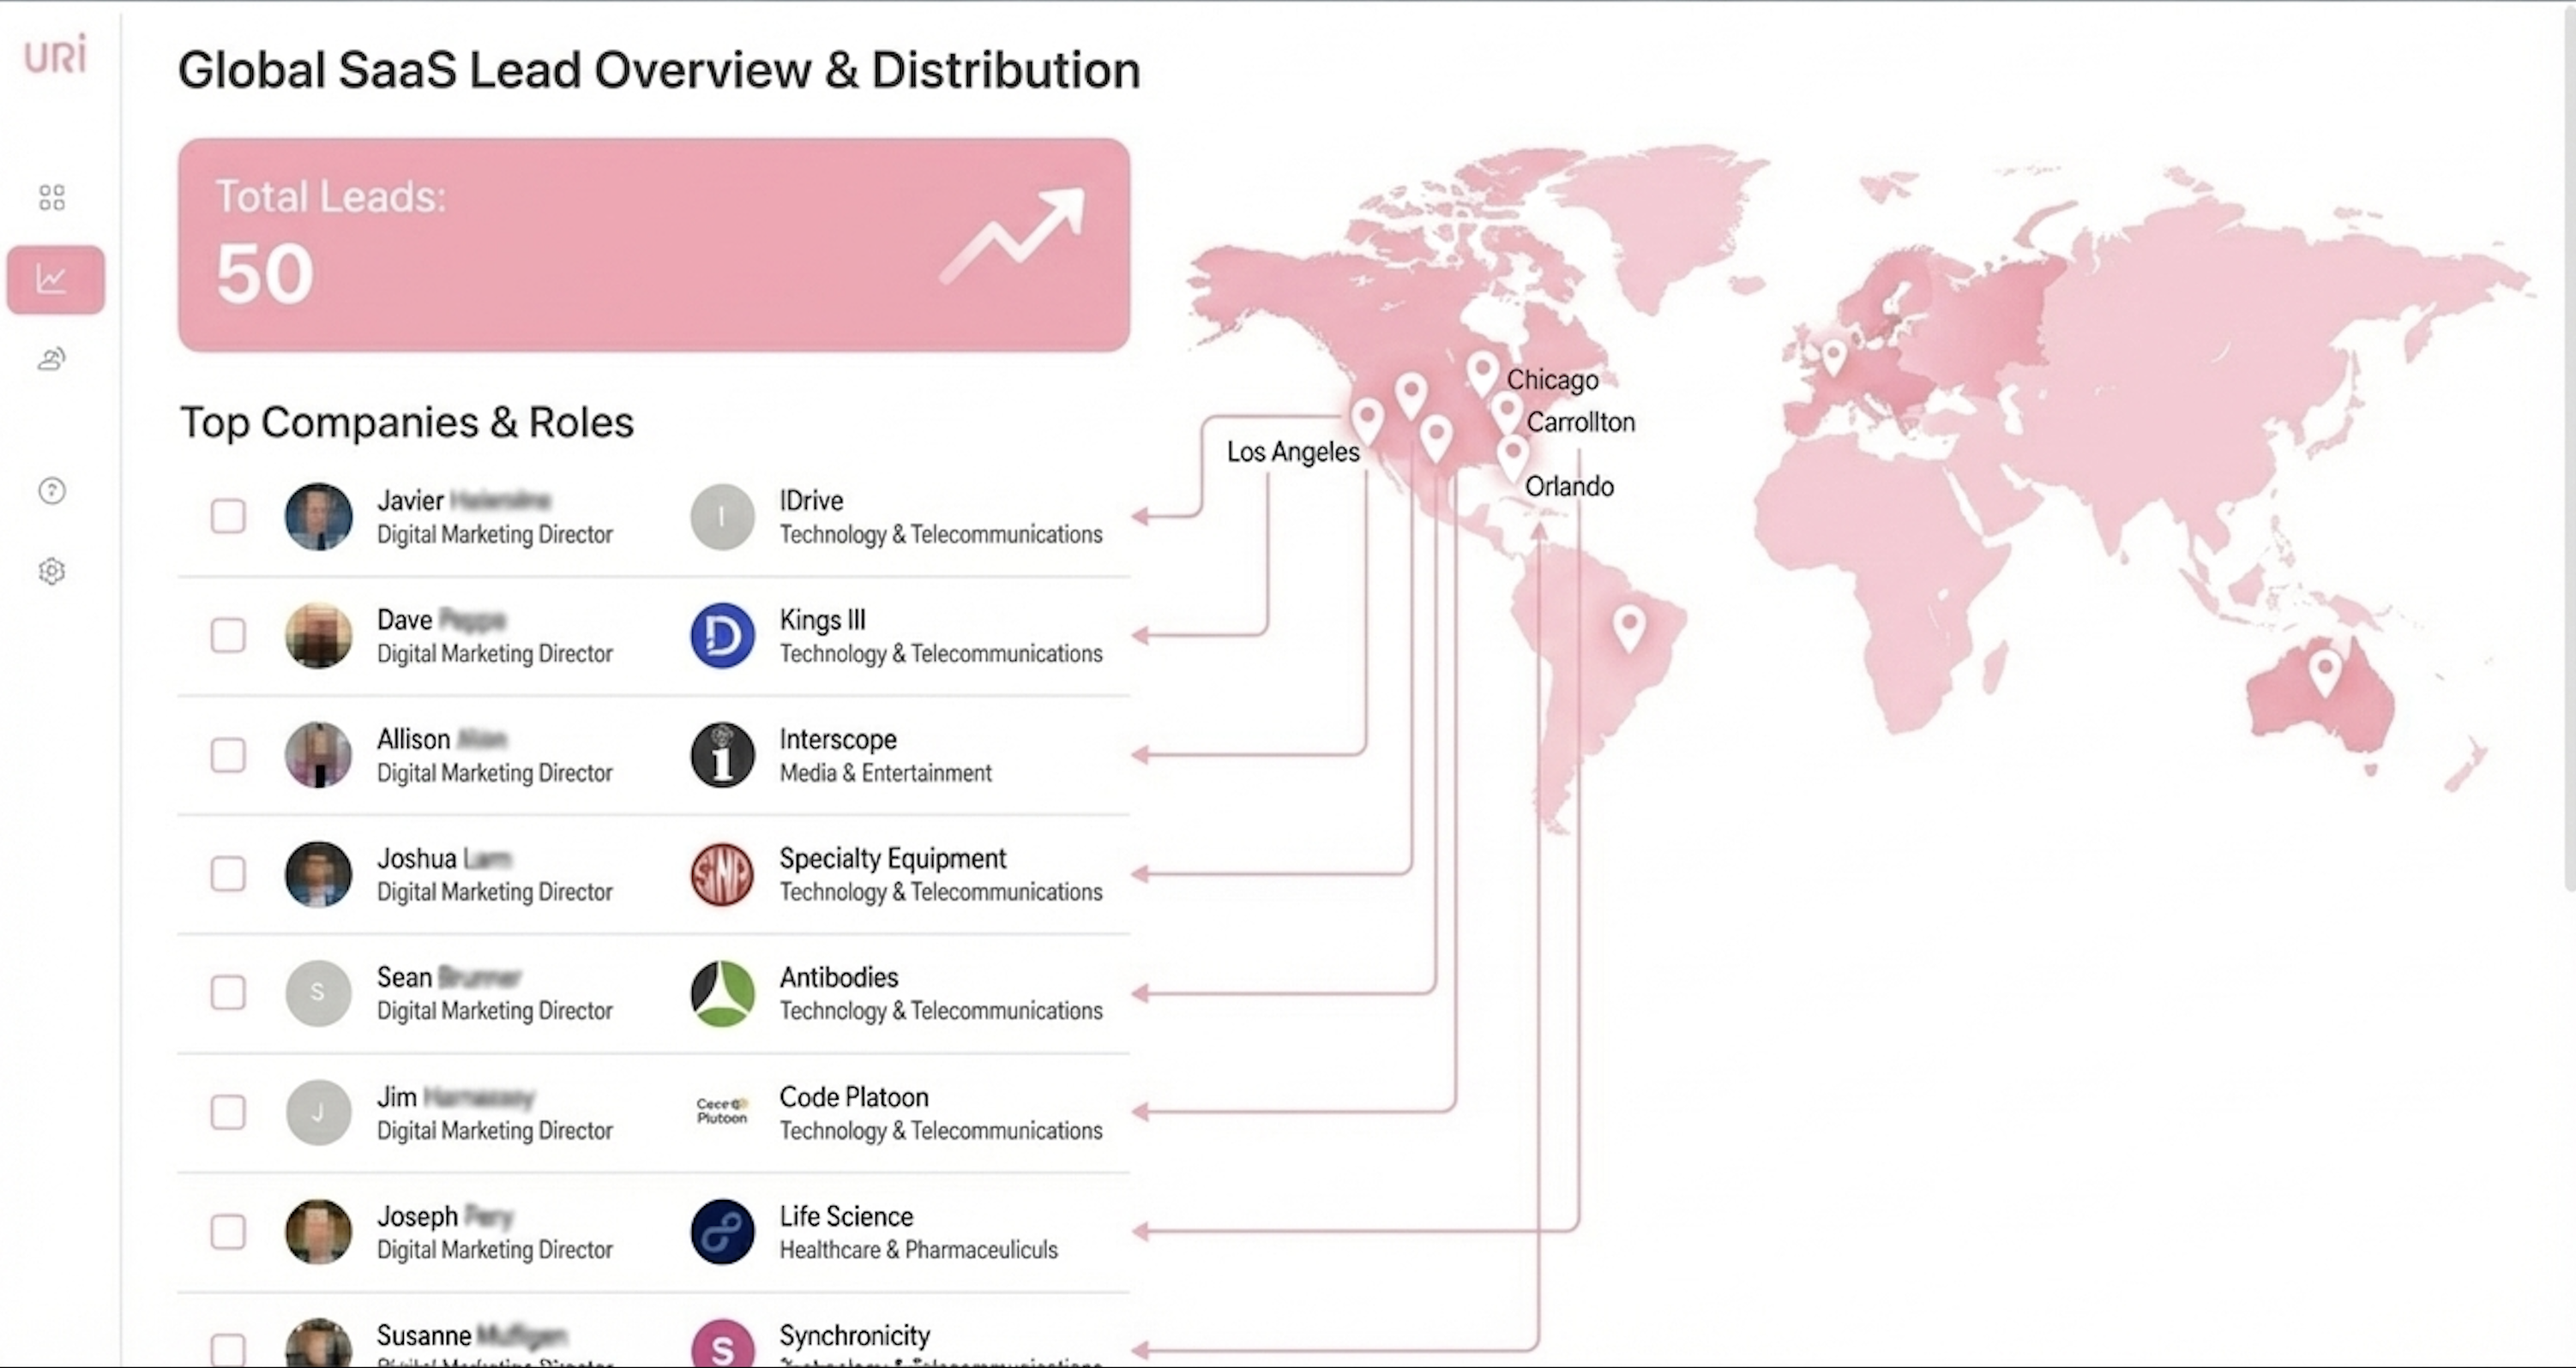
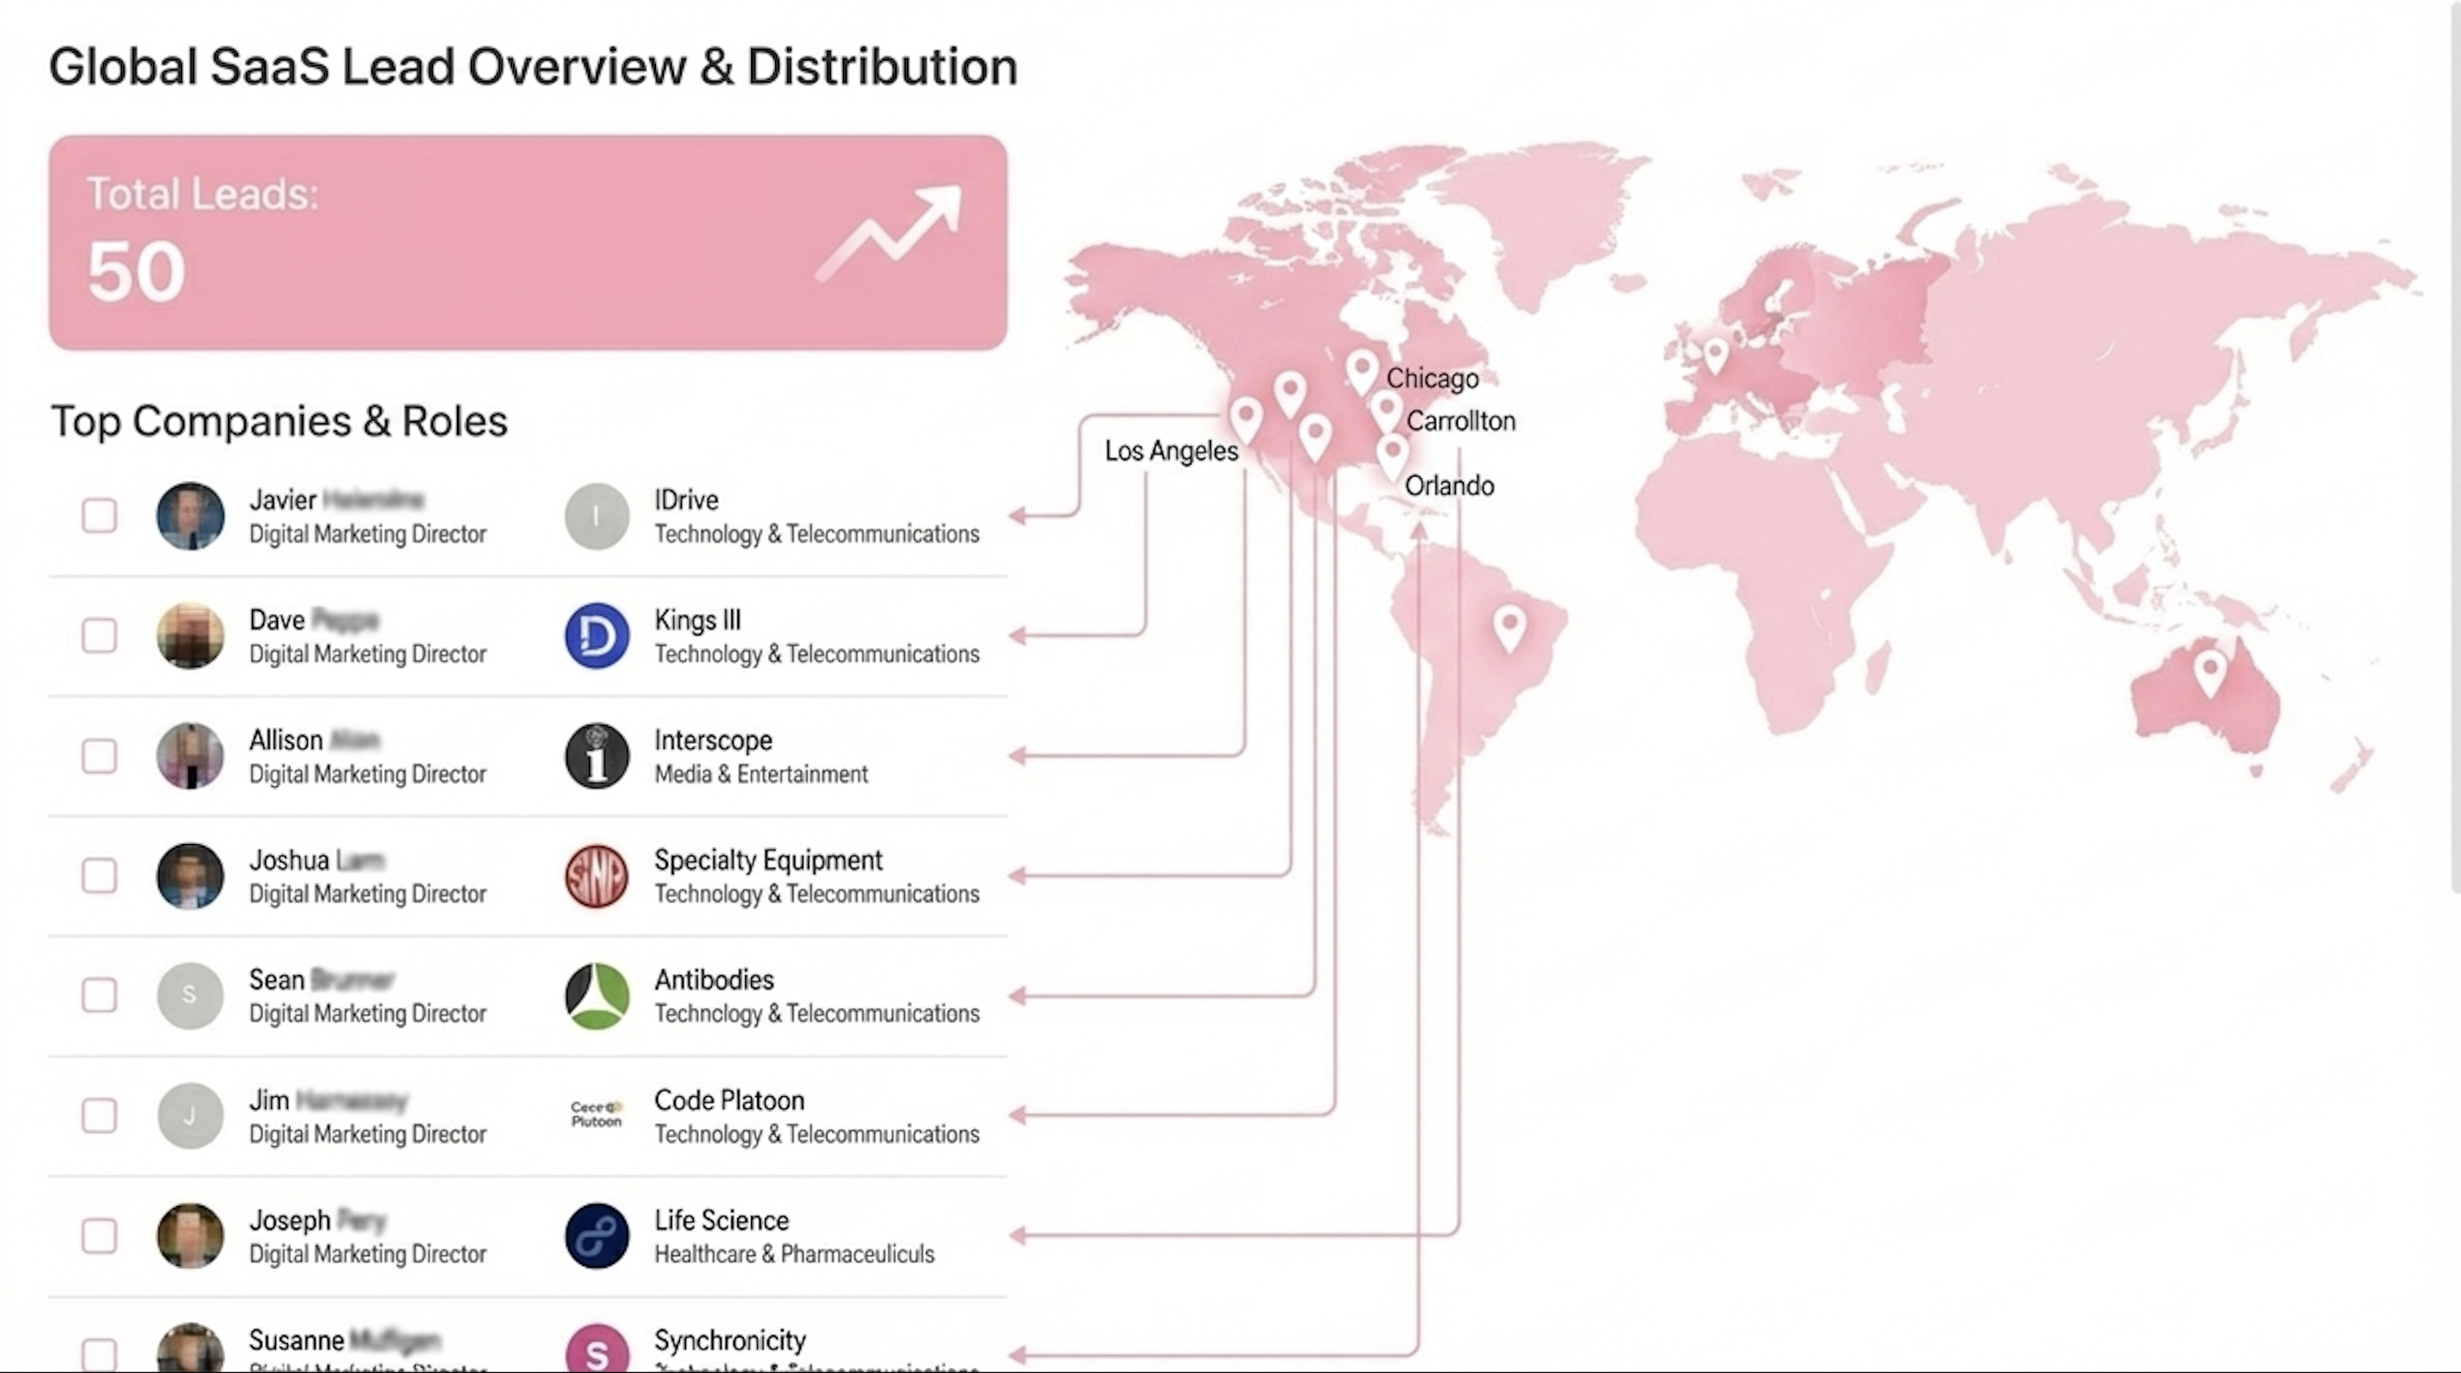
updates

diff --git a/src/components/ShowcaseSections.tsx b/src/components/ShowcaseSections.tsx
@@ -1,0 +1,72 @@
+import { AspectRatio } from '@/components/ui/aspect-ratio';
+import { motion } from 'framer-motion';
+
+const sections = [
+  {
+    title: 'Agriculture Financing Signals',
+    desc: 'Identify financing needs in agriculture and engage decision-makers when intent is clear. URI surfaces timely signals you can act on.',
+    img: '/assets/images/landing/Agriculture_Financing_Needs.png',
+  },
+  {
+    title: 'Global SaaS Opportunities',
+    desc: 'Spot SaaS expansion and market moves in real-time. Use contextual insight to prioritize outreach with the right narrative.',
+    img: '/assets/images/landing/Glbal_saas.png',
+  },
+  {
+    title: 'Generate Reports Easily',
+    desc: 'Create and share clean, actionable performance reports. Keep stakeholders aligned with data that tells a clear story.',
+    img: '/assets/images/landing/How_to_generate_reports.png',
+  },
+  {
+    title: 'Product Snapshot',
+    desc: 'A look at URI’s product experience — designed for speed, clarity, and real-time intelligence.',
+    img: '/assets/images/landing/product_screenshot.png',
+  },
+];
+
+const ShowcaseSections = () => {
+  return (
+    <section className="py-12 sm:py-20 bg-muted/20">
+      <div className="container mx-auto px-4 sm:px-6">
+        <motion.div initial={{ opacity: 0, y: 20 }} whileInView={{ opacity: 1, y: 0 }} viewport={{ once: true }} className="text-center mb-12 sm:mb-16 px-4">
+          <p className="text-primary text-sm font-semibold tracking-wide">IN CONTEXT</p>
+          <h2 className="text-2xl sm:text-3xl md:text-4xl lg:text-5xl font-bold mt-2">
+            Context + <span className="text-primary">Design</span>
+          </h2>
+          <p className="text-base sm:text-lg md:text-xl text-muted-foreground max-w-2xl mx-auto mt-3">Short explanations paired with visuals. Alternating layout for rhythm and clarity.</p>
+        </motion.div>
+
+        <div className="space-y-10 sm:space-y-14">
+          {sections.map((s, i) => (
+            <motion.div
+              key={s.title}
+              initial={{ opacity: 0, y: 20 }}
+              whileInView={{ opacity: 1, y: 0 }}
+              viewport={{ once: true }}
+              transition={{ delay: (i % 2) * 0.1 }}
+              className="grid md:grid-cols-2 gap-6 md:gap-10 items-center max-w-6xl mx-auto"
+            >
+              <div className={i % 2 === 1 ? 'md:order-last' : ''}>
+                <h3 className="text-2xl font-bold mb-3">{s.title}</h3>
+                <p className="text-muted-foreground mb-5">{s.desc}</p>
+                <div className="inline-flex items-center gap-2 px-3 py-1 rounded-full bg-primary/10 border border-primary/20">
+                  <span className="text-xs font-medium">Real Examples</span>
+                </div>
+              </div>
+
+              <div className={i % 2 === 1 ? 'md:order-first' : ''}>
+                <div className="bg-card rounded-2xl border border-border shadow-lg overflow-hidden">
+                  <AspectRatio ratio={16 / 9}>
+                    <img src={s.img} alt={s.title} className="w-full h-full object-cover" />
+                  </AspectRatio>
+                </div>
+              </div>
+            </motion.div>
+          ))}
+        </div>
+      </div>
+    </section>
+  );
+};
+
+export default ShowcaseSections;

diff --git a/src/pages/index.tsx b/src/pages/index.tsx
@@ -10,7 +10,7 @@ import LivePulse from '@/components/LivePulse';
 import Navigation from '@/components/Navigation';
 import ProblemSolution from '@/components/ProblemSolution';
 import ROICalculator from '@/components/ROICalculator';
-import Showcase from '@/components/Showcase';
+import ShowcaseSections from '@/components/ShowcaseSections';
 import Testimonials from '@/components/Testimonials';
 import TopBrands from '@/components/TopBrands';
 import Footer from '@/components/landing/Footer';
@@ -26,7 +26,7 @@ export default function Home() {
       <TopBrands />
       <ProblemSolution />
       {/* <Features /> */}
-      <Showcase />
+      <ShowcaseSections />
       <ContextualIntelligence />
       <CRMRevitalization />
       <ComparisonTable />
